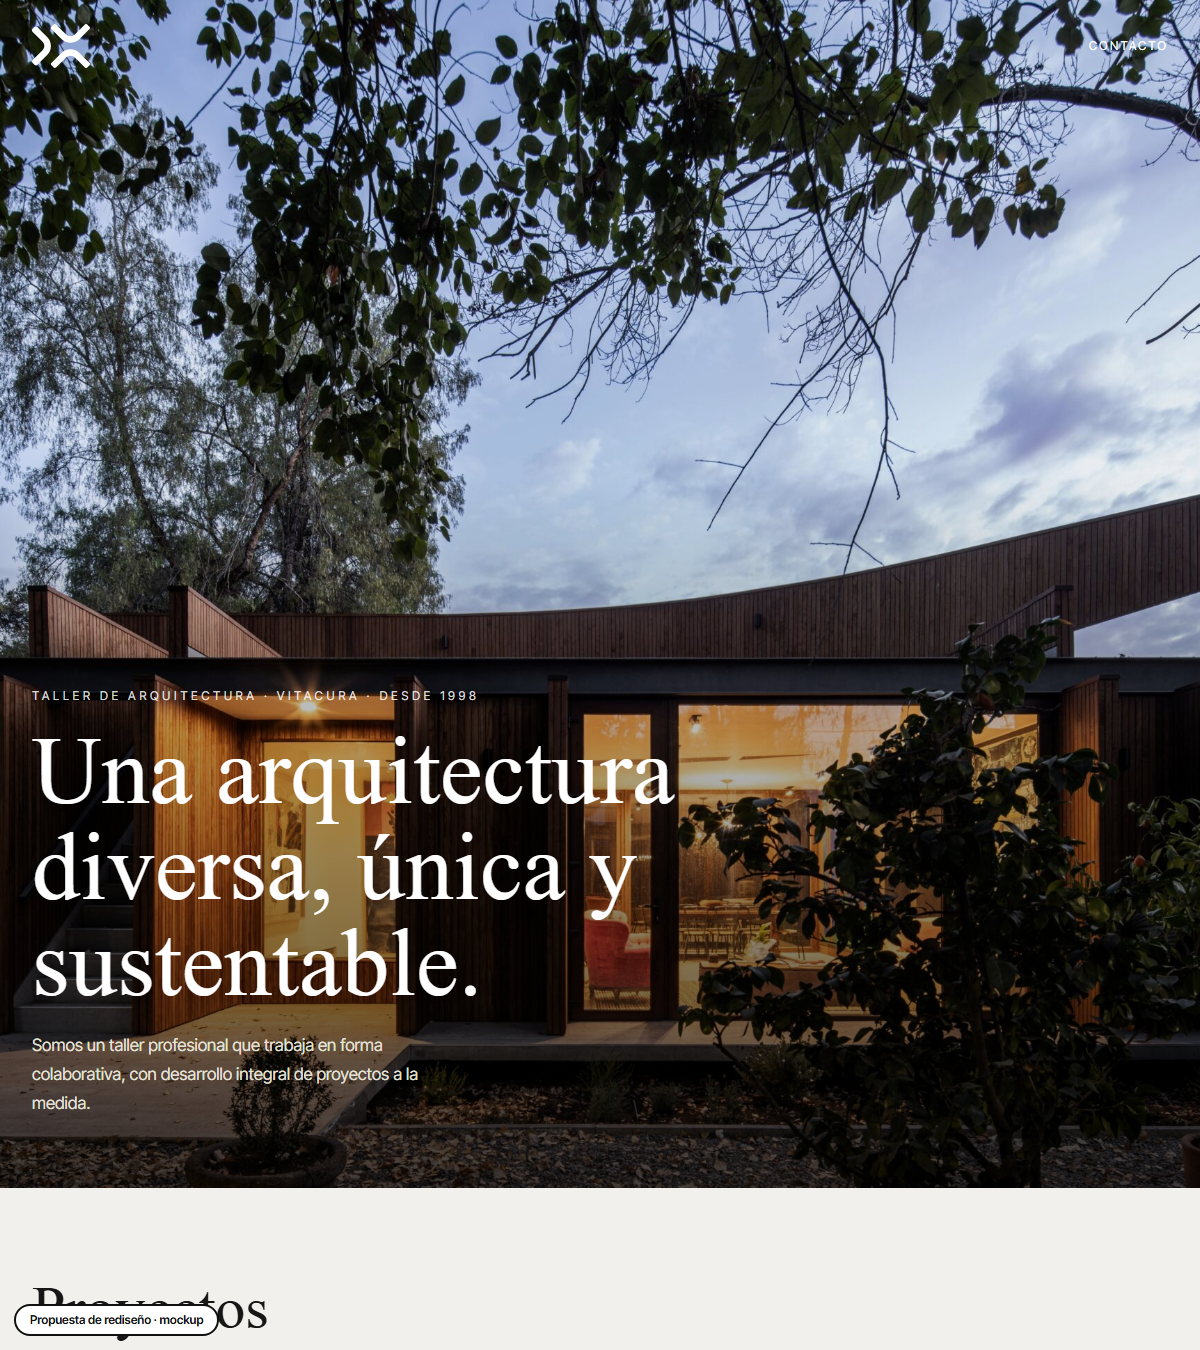
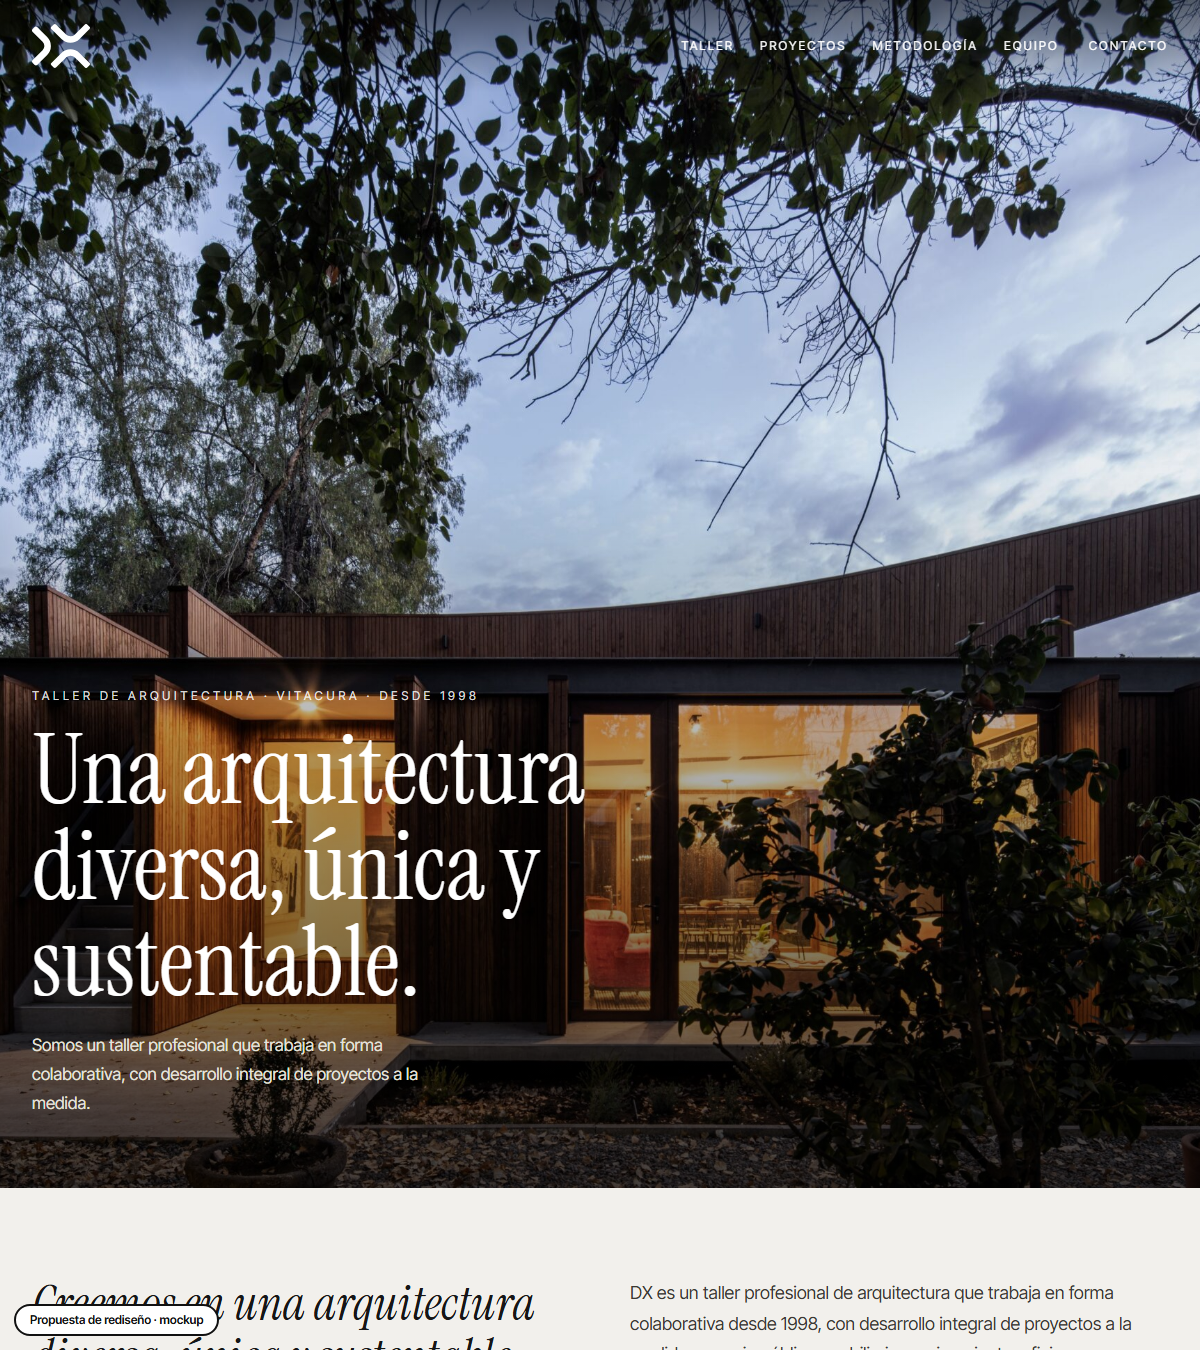
Mockup: dx-arquitectos-vitacura

diff --git a/dx-arquitectos-vitacura/index.html b/dx-arquitectos-vitacura/index.html
@@ -6,12 +6,12 @@
 <link href="https://fonts.googleapis.com/css2?family=Instrument+Serif:ital@0;1&family=Inter+Tight:wght@400;500;600&display=swap" rel="stylesheet">
 <style>
 :root{--ink:#161616;--bone:#f2f0ec;--line:#d6d2ca;--mute:#6d6a63}
-*{box-sizing:border-box;margin:0}html{scroll-behavior:smooth}
+*{box-sizing:border-box;margin:0}html{scroll-behavior:smooth;scroll-padding-top:100px}
 @media(prefers-reduced-motion:reduce){html{scroll-behavior:auto}}
 body{background:var(--bone);color:var(--ink);font:400 17px/1.7 'Inter Tight',sans-serif}
 .wrap{max-width:1180px;margin:0 auto;padding:0 22px}
 h1,h2,h3{font-family:'Instrument Serif',serif;font-weight:400;line-height:1}
-header{position:absolute;left:0;right:0;top:0;z-index:3}header .wrap{display:flex;justify-content:space-between;align-items:center;height:92px}
+header{position:sticky;top:0;z-index:20;position:fixed;left:0;right:0;top:0;z-index:20;background:linear-gradient(180deg,rgba(0,0,0,.55),transparent)}header .wrap{display:flex;justify-content:space-between;align-items:center;height:92px}
 header img{height:44px}header a{color:#fff;text-decoration:none;letter-spacing:.18em;font-size:12px;text-transform:uppercase}
 .hero{position:relative;min-height:88vh;display:flex;align-items:flex-end;background:linear-gradient(0deg,rgba(0,0,0,.7),rgba(0,0,0,.05) 60%),url(assets/CA_C2_DX_156-scaled.jpg) center/cover;color:#fff}
 .hero .wrap{padding:0 22px 70px;width:100%}
@@ -27,12 +27,27 @@ section{padding:90px 0}h2{font-size:clamp(34px,5vw,60px);margin-bottom:20px}
 .contact{background:var(--ink);color:#fff;text-align:center}.contact a.l{display:block;font:italic 400 clamp(30px,5.4vw,60px) 'Instrument Serif';color:#fff;text-decoration:none;margin:12px 0}
 .contact a.l:hover{opacity:.7}
 footer{background:var(--ink);color:#fff;padding:0 0 90px;text-align:center;font-size:12px;letter-spacing:.2em;opacity:.8}
-.mock{position:fixed;left:14px;bottom:14px;background:#fff;color:#111;border:2px solid #111;font:600 12px/1 'Inter Tight';padding:8px 14px;border-radius:30px;z-index:9}
+.mock{z-index:30;position:fixed;left:14px;bottom:14px;background:#fff;color:#111;border:2px solid #111;font:600 12px/1 'Inter Tight';padding:8px 14px;border-radius:30px;z-index:9}
 @media(max-width:800px){.grid{grid-template-columns:1fr}.grid .tall{grid-row:auto}.hero{min-height:78vh}}
-</style></head><body>
-<header><div class="wrap"><img src="assets/ldx_white.svg" alt="DX Arquitectos"><a href="#contacto">Contacto</a></div></header>
+nav{display:flex;gap:26px;margin-left:auto;margin-right:30px}nav a{color:#fff;text-decoration:none;letter-spacing:.18em;font-size:12px;text-transform:uppercase}nav a:hover{opacity:.7}.tl{display:grid;grid-template-columns:1fr 1fr;gap:60px;align-items:start}.tl p{margin-bottom:14px;color:#3b3934;font-size:18px}.big{font:italic 400 clamp(32px,4vw,52px)/1.1 "Instrument Serif"}.pr{display:grid;grid-template-columns:repeat(2,1fr);gap:0;border-top:1px solid var(--ink);margin-top:30px}.pr>div{padding:30px 30px 30px 0;border-bottom:1px solid var(--line)}.pr small{letter-spacing:.2em;text-transform:uppercase;font-size:11px;color:var(--mute)}.pr h3{font-size:34px;margin:6px 0 8px}.pr p{font-size:16px;color:#4a4742;max-width:52ch}.st{counter-reset:s;margin-top:30px}.st>div{display:grid;grid-template-columns:70px 1fr;gap:20px;padding:22px 0;border-top:1px solid var(--line)}.st>div:before{counter-increment:s;content:counter(s,decimal-leading-zero);font:italic 400 38px "Instrument Serif";color:var(--mute)}.st b{font:400 28px "Instrument Serif";display:block}.st span{font-size:16px;color:#4a4742}.tm{display:grid;grid-template-columns:repeat(2,1fr);gap:30px;margin-top:30px}.tm>div{border-top:1px solid var(--ink);padding-top:18px}.tm b{font:400 30px "Instrument Serif";display:block}.tm small{font-size:11px;letter-spacing:.2em;text-transform:uppercase;color:var(--mute)}.tm p{font-size:16px;color:#4a4742;margin-top:8px}.wide{width:100%;height:56vh;object-fit:cover;display:block}@media(max-width:860px){nav{display:none}.tl,.pr,.tm{grid-template-columns:1fr}.st>div{grid-template-columns:50px 1fr}}</style></head><body>
+<header><div class="wrap"><img src="assets/ldx_white.svg" alt="DX Arquitectos"><nav><a href="#taller">Taller</a><a href="#proyectos">Proyectos</a><a href="#metodologia">Metodología</a><a href="#equipo">Equipo</a></nav><a class="b" href="#contacto">Contacto</a></div></header>
 <div class="hero"><div class="wrap"><small>Taller de arquitectura · Vitacura · Desde 1998</small><h1>Una arquitectura diversa, única y sustentable.</h1><p>Somos un taller profesional que trabaja en forma colaborativa, con desarrollo integral de proyectos a la medida.</p></div></div>
-<section><div class="wrap"><h2>Proyectos</h2><p style="max-width:56ch;color:var(--mute)">Espacio público, mobiliario, equipamiento, oficinas y viviendas.</p><div class="tags"><span>Espacio público</span><span>Mobiliario</span><span>Equipamiento</span><span>Oficinas</span><span>Viviendas</span></div><div class="grid"><figure class="tall"><img src="assets/LosCerezos_Alta-9-copia.jpg" alt="Casa Los Cerezos"><figcaption>Casa Los Cerezos · Curicó</figcaption></figure><figure><img src="assets/Casa_LosCastanos_Alta-8-copia.jpg" alt="Casa Los Castaños"><figcaption>Casa Los Castaños · Curicó</figcaption></figure><figure><img src="assets/Hospederia_PMontt_Web-26-e1648830316345.jpg" alt="Hospedería Puerto Montt"><figcaption>Hospedería · Puerto Montt</figcaption></figure></div></div></section>
+<section id="taller"><div class="wrap tl"><div class="big">Creemos en una arquitectura diversa, única y sustentable.</div><div><p>DX es un taller profesional de arquitectura que trabaja en forma colaborativa desde 1998, con desarrollo integral de proyectos a la medida: espacio público, mobiliario, equipamiento, oficinas y viviendas.</p><p>Su metodología se basa en un diálogo continuo entre el cliente, el taller y el ecosistema de DX. La retroalimentación entre las partes genera una respuesta particular e innovadora, que integra las necesidades y el contexto de cada encargo.</p><p>El equipo reúne profesionales que aportan una multiplicidad de miradas, y donde cada director de proyecto discierne entre las mejores soluciones. Esa experiencia de trabajo colaborativo asegura que cada problema cuente con un proceso integral y reflexivo.</p></div></div></section>
+<img class="wide" src="assets/Villuco_Alta-9.jpg" alt="Proyecto Villuco" loading="lazy">
+<section id="proyectos"><div class="wrap"><h2>Proyectos</h2><div class="tags"><span>Espacio público</span><span>Mobiliario</span><span>Equipamiento</span><span>Oficinas</span><span>Viviendas</span></div><div class="grid"><figure class="tall"><img src="assets/LosCerezos_Alta-9-copia.jpg" alt="Casa Los Cerezos" loading="lazy"><figcaption>Casa Los Cerezos · Curicó</figcaption></figure><figure><img src="assets/Casa_LosCastanos_Alta-8-copia.jpg" alt="Casa Los Castaños" loading="lazy"><figcaption>Casa Los Castaños · Curicó</figcaption></figure><figure><img src="assets/Hospederia_PMontt_Web-26-e1648830316345.jpg" alt="Hospedería Puerto Montt" loading="lazy"><figcaption>Hospedería · Puerto Montt</figcaption></figure></div>
+<div class="pr">
+<div><small>Vivienda · Las Condes</small><h3>Casa Cenote</h3><p>Habitar entre dos patios, uno de agua y otro de piedra. Un jardín hundido, contenido por un muro alabeado, da independencia a dos casas que cohabitan en un mismo predio; la madera termotratada refuerza la curva, y un segundo muro curvo en la terraza abre las vistas al cerro Manquehue.</p></div>
+<div><small>Equipamiento social · Puerto Montt</small><h3>Hospedería de Puerto Montt, Hogar de Cristo</h3><p>Un edificio que articula tres programas sociales de la fundación (Hospedería, PADAM y FAE) con un programa administrativo, a partir de las condicionantes del terreno: orientación, superficie, geometría, vistas, pendiente y acceso.</p></div>
+<div><small>Oficinas · Paine</small><h3>Exportadora de miel</h3><p>Dos galpones prefabricados de 1.000 m² en un terreno de 10.000 m², y un edificio de oficinas de 500 m² que da la imagen corporativa: una barra de 8 × 30 m en madera laminada de pino, con pilares diagonales en X.</p></div>
+<div><small>Equipamiento · Ñuñoa</small><h3>Ashtanga Yoga Chile</h3><p>Arquitectura pensada como un templo: espacios introvertidos y silenciosos, de luz tenue y cambiante, de formas simples, donde la luz entra e ilumina la práctica sin deslumbrarla.</p></div>
+<div><small>Espacio público · Santiago</small><h3>Propuesta Parque Intercomunal Padre Hurtado</h3><p>Propuesta de 2016 para un parque de 50 hectáreas.</p></div>
+<div><small>Vivienda · Curicó</small><h3>Casa Los Cerezos y Casa Los Castaños</h3><p>Dos casas en Curicó, desarrolladas por el taller.</p></div></div></div></section>
+<section id="metodologia" style="padding-top:0"><div class="wrap"><h2>Metodología de trabajo</h2><p style="max-width:58ch;color:var(--mute)">Un proceso ordenado, desde el levantamiento hasta el control del desarrollo.</p><div class="st">
+<div><div><b>Entender el encargo</b><span>Un equipo capacitado levanta información para entender la necesidad del cliente y estudiar el marco regulatorio del proyecto. Luego se formaliza el encargo con un contrato que explicita entregables y tiempos.</span></div></div>
+<div><div><b>Control del proyecto</b><span>Cada proyecto recibe un código de ingreso, que permite planificar y controlar los recursos necesarios para su desarrollo.</span></div></div>
+<div><div><b>Equipo de diseño</b><span>Dos o más directores, uno o dos arquitectos desarrolladores y los especialistas del encargo, con funciones y responsabilidades integradas en una matriz de roles BIM.</span></div></div>
+<div><div><b>El cliente, parte del proceso</b><span>Reuniones periódicas de feedback hacen que el cliente sea parte del desarrollo y del resultado del diseño. Cada proyecto se expone al taller para recibir retroalimentación de todo el equipo.</span></div></div></div></div></section>
+<section id="equipo" style="padding-top:0"><div class="wrap"><h2>Equipo</h2><div class="tm"><div><small>Arquitecto · Universidad de Chile, 2002</small><b>Director de proyecto</b><p>Estudios de posgrado en arte, medios digitales y gestión inmobiliaria (U. de Chile y UC). Fue profesor de composición en la UCH, la UC y la UTEM.</p></div><div><small>Máster en arquitectura bio-digital · UIC Barcelona, 2009</small><b>Director de proyectos</b><p>Su interés está en la relación entre la representación gráfica, la materialización de la obra y la incorporación de la tecnología. Ve la arquitectura como una experiencia humana, una extensión de nuestra piel.</p></div></div></div></section>
 <section class="contact" id="contacto"><div class="wrap"><h2>Conversemos tu proyecto</h2><a class="l" href="tel:+56223424946">+56 2 2342 4946</a><p><a style="color:#fff" href="mailto:buzon@dx.cl">buzon@dx.cl</a><br>La Luma 1398, Vitacura</p></div></section>
 <footer>DX ARQUITECTOS</footer>
 <div class="mock">Propuesta de rediseño · mockup</div></body></html>
